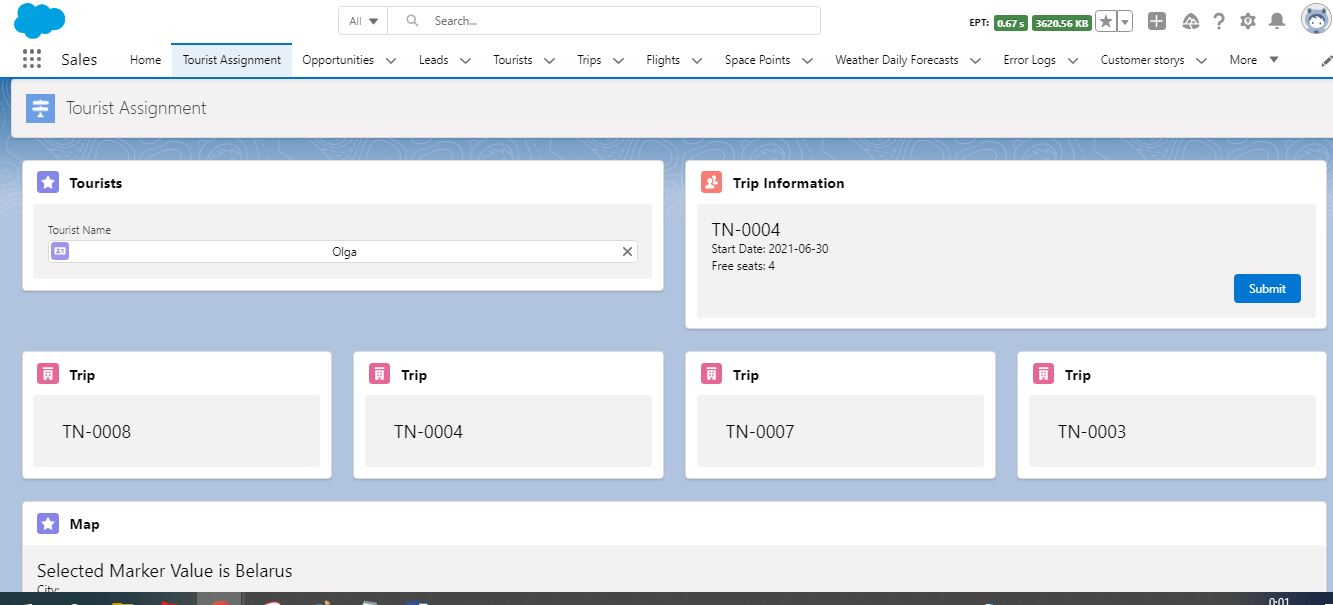
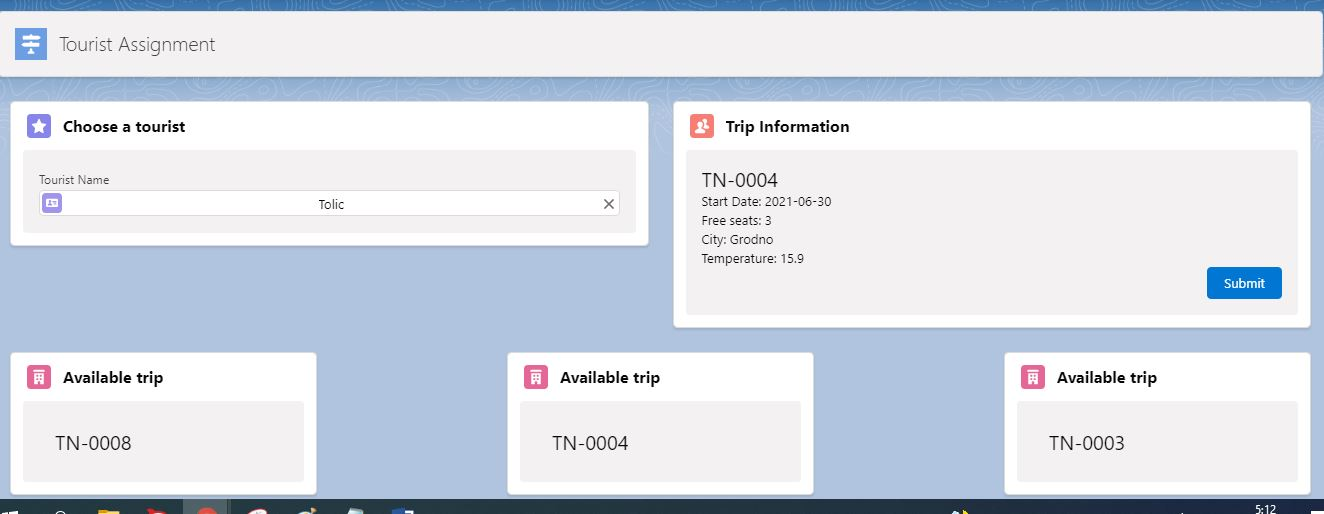
3.4

diff --git a/lecture_3.4/TouristAssignment/aura/TouristAssignmentHelper.js b/lecture_3.4/TouristAssignment/aura/TouristAssignmentHelper.js
@@ -61,20 +61,6 @@
         $A.enqueueAction(action);
     },
     
-    getCity : function(component, event) {
-        let action = component.get("c.getNameCity");
-        action.setParams({
-            tripId : component.get("v.selectedTripId")
-        });
-        action.setCallback(this, function(response) {
-            let state = response.getState();
-            if (state === "SUCCESS") {
-                component.set("v.city", response.getReturnValue());
-            }
-        });
-        $A.enqueueAction(action); 
-    },
-    
     createFlight: function(component, event) {
         let action = component.get("c.createFlight");
         action.setParams({
@@ -95,6 +81,48 @@
             component.set("v.spinner", false);
         });
         $A.enqueueAction(action);
+    },
+    
+    getCity : function(component, event) {
+        let action = component.get("c.getNameCity");
+        action.setParams({
+            tripId : component.get("v.selectedTripId")
+        });
+        action.setCallback(this, function(response) {
+            let state = response.getState();
+            if (state === "SUCCESS") {
+                component.set("v.spacePoint", response.getReturnValue());
+                component.set("v.city", response.getReturnValue().City__c);
+            } 
+            component.set("v.spinner", false);
+        });
+        $A.enqueueAction(action);
+    },
+    
+    getWeather : function(component, event) {
+        let action = component.get("c.fetchWeather");
+        action.setParams({
+            tripId : component.get("v.selectedTripId")
+        });
+        action.setCallback(this, function(response) {
+            let state = response.getState();
+            if (state === "SUCCESS") {
+                component.set("v.temperature", response.getReturnValue().Average_Temperature__c);
+            } 
+            component.set("v.spinner", false);
+        });
+        $A.enqueueAction(action);
+    },
+    
+    zoomMap : function(component, event) {
+        component.set("v.mapMarkers", [
+            {
+                location: {
+                    City: component.get("v.city")
+                },
+            }
+        ]);
+        component.set("v.zoomLevel", 7);
     },
     
     showSpinner : function(component) {

diff --git a/lecture_3.4/TouristAssignment/aura/TouristAssignmentController.js b/lecture_3.4/TouristAssignment/aura/TouristAssignmentController.js
@@ -7,6 +7,7 @@
     },
     
     selectedTourist : function(component, event, helper) {
+        helper.getDataForMap(component, event);
         let tourist = event.getParam("value");
         component.set("v.touristId", tourist.Id);
         helper.сearchTrip(component, event);
@@ -21,9 +22,9 @@
         component.set("v.selectedTripId", selectedTrip.Id);
         helper.getFreeSeat(component, event);
         component.set("v.activeInformationTrip", true);
-        //helper.getCity(component, event);
-        helper.getDataForMap(component, event);
-        component.set("v.mapVisible", true);
+        helper.getCity(component, event);
+        helper.getWeather(component, event);
+        helper.zoomMap(component, event);
     },
     
     handleMarkerSelect: function (cmp, event, helper) {
